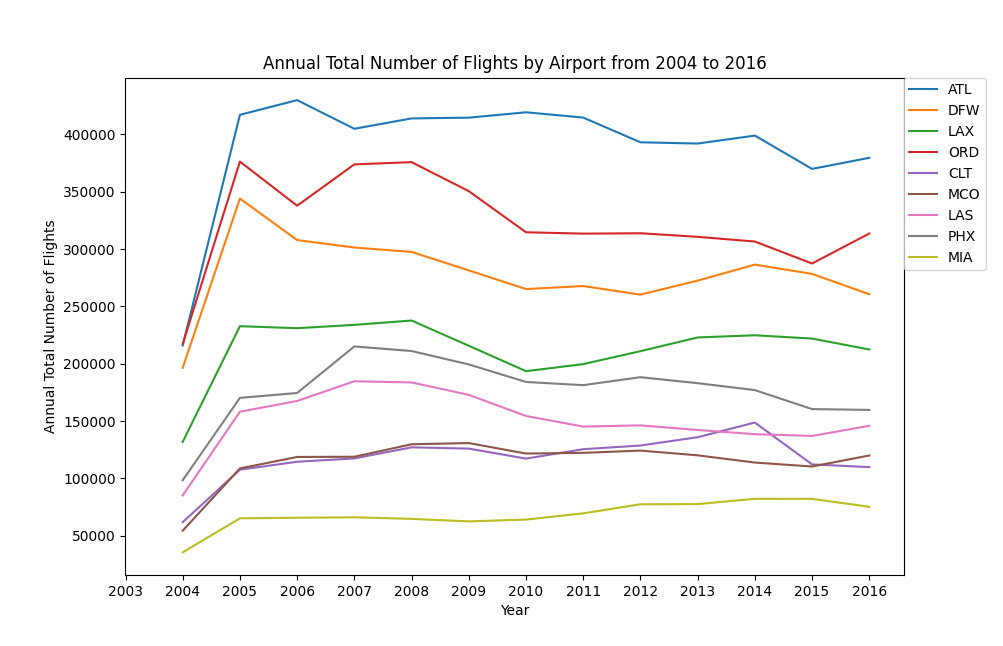
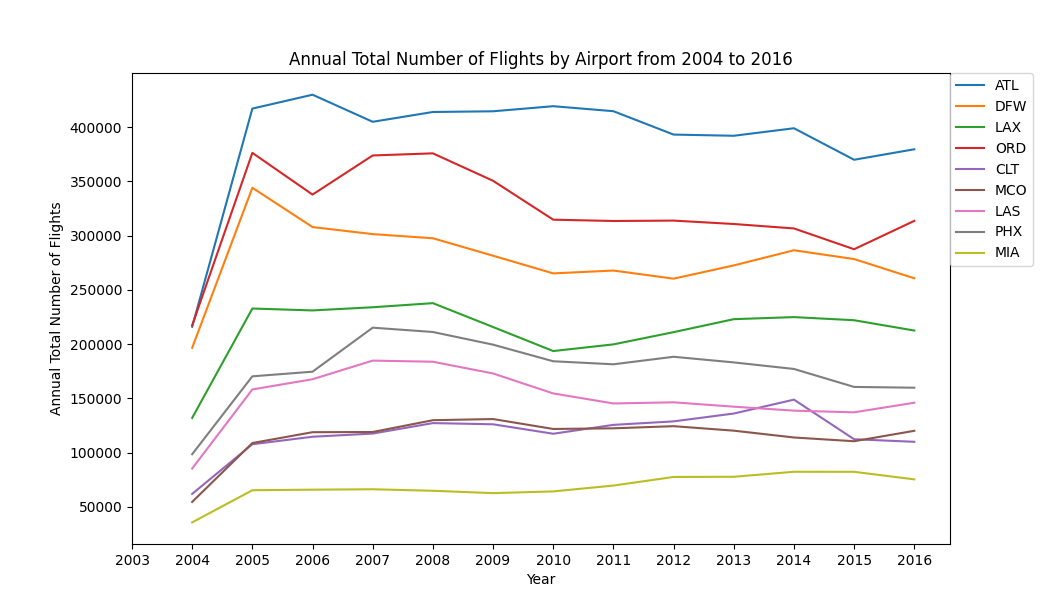
Add files via upload

diff --git a/project2.py b/project2.py
@@ -133,10 +133,10 @@ for unit in units:
 MIA_flights=MIA_flights[1:]
 plt.plot(dates,MIA_flights,label="MIA")
 
-plt.title('Annual Total Number of Flights by Airport since 2004')
+plt.title('Annual Total Number of Flights by Airport from 2004 to 2016')
 plt.xlabel('Year')
 plt.xticks(np.arange(2003, 2017, 1))
-plt.ylabel('Total Number of Flights')
+plt.ylabel('Annual Total Number of Flights')
 plt.legend(bbox_to_anchor=(1,1), loc='upper left', borderaxespad=0)
 plt.show()
 
